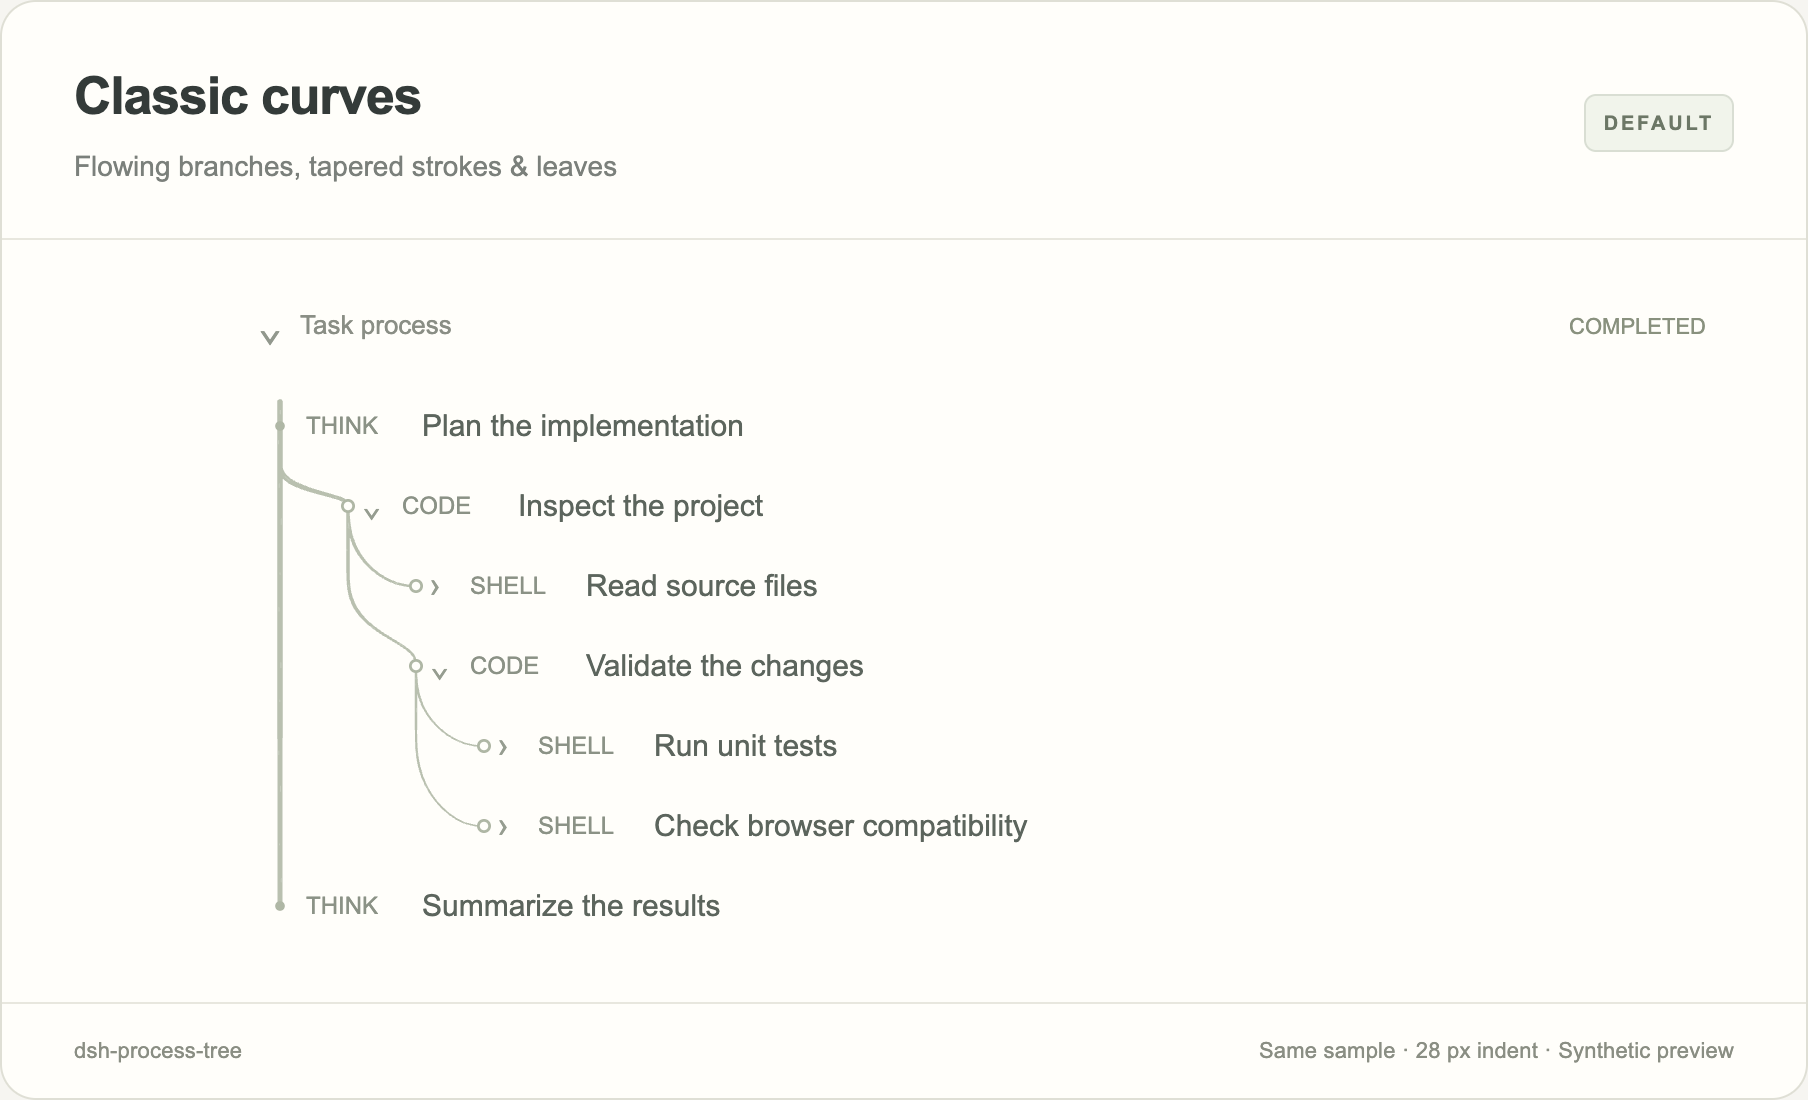
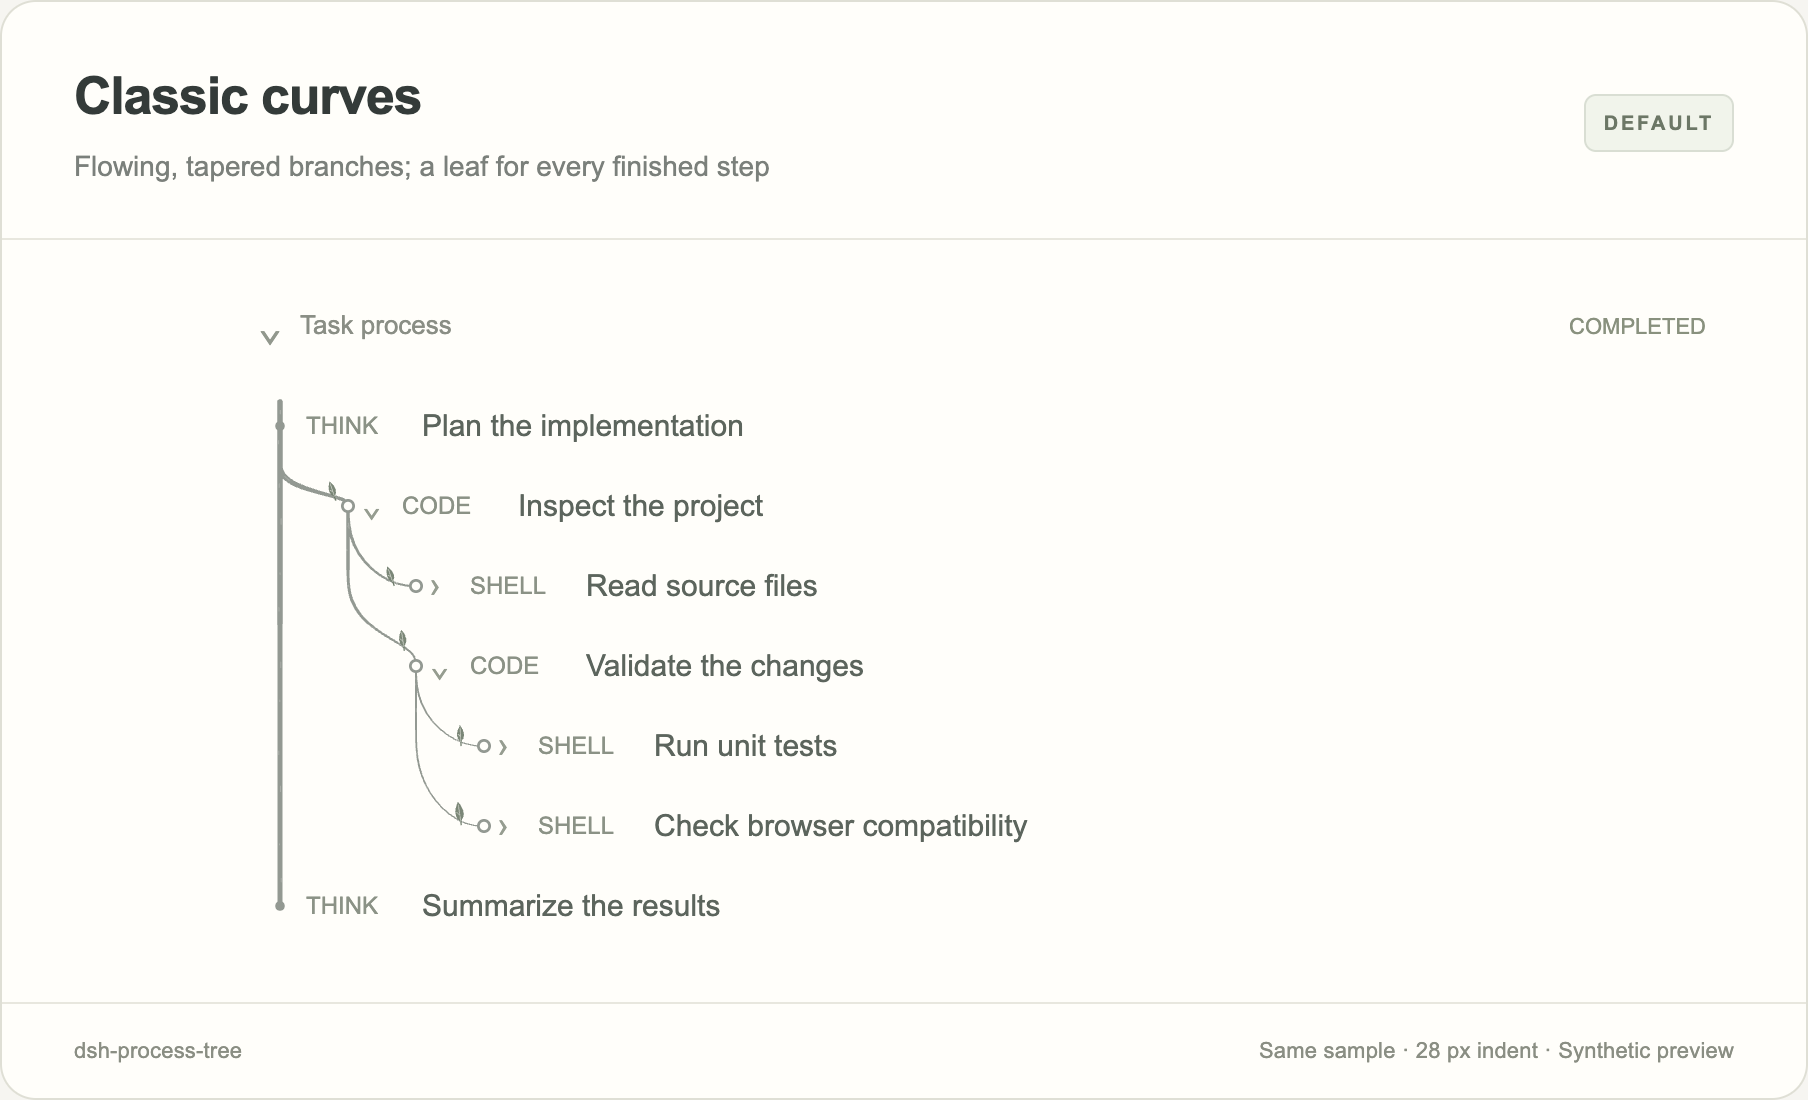
feat: darker tapered classic lines, leaves for finished steps, quiet as understated mode
- Classic lines take the host's text colour at about two-thirds strength
  and taper more along the trunk, stems and forks.
- A leaf sprouts only when a tool step finishes; running and failed steps
  stay bare. Leaves stand clear of the line and default to 9px.
- Drop the random leaf-density slider; a saved density of 0 migrates to
  hidden leaves that the leaf style select can turn back on.
- List quiet lines last as the understated mode in settings, READMEs and
  previews.

Changed region(s): [[0.0929, 0.1236, 0.4336, 0.1855], [0.1858, 0.4945, 0.2168, 0.5255], [0.1549, 0.4327, 0.1858, 0.4636]]

diff --git a/client.js b/client.js
@@ -89,7 +89,7 @@ window.__ModuleLoader__.load({
     growthEnabled: true,
     textureStrength: 0.24,
     leafDensity: 0.55,
-    leafSize: 7,
+    leafSize: 9,
     leafTint: 'muted',
     stateMotion: true,
     motionStrength: 0.4,
@@ -140,8 +140,12 @@ window.__ModuleLoader__.load({
       growthEnabled: typeof source.growthEnabled === 'boolean' ? source.growthEnabled : defaults.growthEnabled,
       textureStyle: ['none', 'ink', 'bark'].includes(source.textureStyle) ? source.textureStyle : defaults.textureStyle,
       textureStrength: clampNumber(source.textureStrength ?? defaults.textureStrength, 0, 1, defaults.textureStrength),
-      leafStyle: ['none', 'slim', 'round'].includes(source.leafStyle) ? source.leafStyle : defaults.leafStyle,
-      leafDensity: clampNumber(source.leafDensity ?? defaults.leafDensity, 0, 1, defaults.leafDensity),
+      // Leaves now mark finished steps; a density of 0 was the old way to hide them.
+      leafStyle: source.leafDensity === 0 ? 'none'
+        : ['none', 'slim', 'round'].includes(source.leafStyle) ? source.leafStyle : defaults.leafStyle,
+      // Consumed by the leafStyle migration above, so the select can turn leaves back on.
+      leafDensity: source.leafDensity === 0 ? defaults.leafDensity
+        : clampNumber(source.leafDensity ?? defaults.leafDensity, 0, 1, defaults.leafDensity),
       leafSize: clampNumber(source.leafSize ?? defaults.leafSize, 3, 12, defaults.leafSize),
       leafTint: ['muted', 'green', 'mono'].includes(source.leafTint) ? source.leafTint : defaults.leafTint,
       stateMotion: typeof source.stateMotion === 'boolean' ? source.stateMotion : defaults.stateMotion,
@@ -316,7 +320,8 @@ window.__ModuleLoader__.load({
 }
 
 .dpt-layer {
-  --dpt-ink: color-mix(in srgb, var(--dsw-alias-border-l2, #d8d4ca) 45%, var(--dsw-alias-label-tertiary, #8a857c));
+  /* The host's own text colour, mixed opaque with the page so joins never darken. */
+  --dpt-ink: color-mix(in srgb, currentColor 66%, var(--dsw-alias-bg-base, #fff));
   position: absolute;
   top: 0;
   left: 0;
@@ -326,8 +331,6 @@ window.__ModuleLoader__.load({
   pointer-events: none;
   z-index: 0;
 }
-/* Opacity belongs to the shared group: overlapping roots stay one tone. */
-.dpt-edges { opacity: .88; }
 .dpt-edge {
   fill: var(--dpt-ink);
   stroke: none;
@@ -342,7 +345,7 @@ window.__ModuleLoader__.load({
 .dpt-leaf.dpt-live { color: var(--dsw-alias-label-deep-diving, #5b8def); }
 .dpt-leaf.dpt-error { color: var(--dsw-alias-state-error-primary, #d9534f); }
 .dpt-leaf.dpt-stopped { color: var(--dsw-alias-state-warn-primary, #d9a441); }
-.dpt-leaf-fill { fill: currentColor; opacity: .72; }
+.dpt-leaf-fill { fill: currentColor; opacity: .9; }
 .dpt-leaf-vein { fill: none; stroke: var(--dsw-alias-bg-base, #fff); stroke-width: .45; opacity: .5; }
 .dpt-leaf-petiole { stroke: currentColor; stroke-width: .65; fill: none; }
 .dpt-leaf-blade { transform-origin: 0 0; }
@@ -842,11 +845,17 @@ window.__ModuleLoader__.load({
 
   let layerId = 0
   const isLive = (state) => state === 'running' || state === 'preparing'
+  const FINISHED_STATES = ['completed', 'success', 'succeeded', 'done']
+  const isFinished = (state) => FINISHED_STATES.includes(state)
   const smoothStep = (t) => t * t * (3 - 2 * t)
+  // Share of the width lost along the trunk, a stem, and across each fork.
+  const TRUNK_TAPER = 0.5
+  const STEM_TAPER = 0.2
+  const FORK_TAPER = 0.65
   const trunkWidth = (y) => Math.max(0.45, SETTINGS.lineWidth *
-    (1 - SETTINGS.thicknessDecay * 0.35 * (1 - Math.exp(-Math.max(0, y) / 480))))
+    (1 - SETTINGS.thicknessDecay * TRUNK_TAPER * (1 - Math.exp(-Math.max(0, y) / 480))))
   const stemWidth = (node, y) => Math.max(0.45, node.width *
-    (1 - SETTINGS.thicknessDecay * 0.12 * (1 - Math.exp(-Math.max(0, y - node.y) / 240))))
+    (1 - SETTINGS.thicknessDecay * STEM_TAPER * (1 - Math.exp(-Math.max(0, y - node.y) / 240))))
 
   function smoothOutline(points, move) {
     let d = (move ? 'M' : 'L') + coord(points[0].x) + ',' + coord(points[0].y)
@@ -2092,7 +2101,7 @@ window.__ModuleLoader__.load({
           : rootY
         const startY = branched ? topBranchStartY(previousRow, naturalStartY, node) : naturalStartY
         const endY = branched ? startY : node.y
-        node.width = branched ? Math.max(0.45, trunkWidth(startY) * (1 - SETTINGS.thicknessDecay * 0.55)) : trunkWidth(node.y)
+        node.width = branched ? Math.max(0.45, trunkWidth(startY) * (1 - SETTINGS.thicknessDecay * FORK_TAPER)) : trunkWidth(node.y)
         if (endY > railY) {
           edges.push({
             key: 'trunk:to:' + node.key,
@@ -2122,7 +2131,7 @@ window.__ModuleLoader__.load({
       })
 
       for (const node of nodes) {
-        if (node.parent) node.width = Math.max(0.45, stemWidth(node.parent, branchStartY(node.parent, node)) * (1 - SETTINGS.thicknessDecay * 0.55))
+        if (node.parent) node.width = Math.max(0.45, stemWidth(node.parent, branchStartY(node.parent, node)) * (1 - SETTINGS.thicknessDecay * FORK_TAPER))
         if (!node.children.length) continue
         const tx = node.dotX
         let lastStart = node.y
@@ -2149,7 +2158,7 @@ window.__ModuleLoader__.load({
               : branchD(tx, startY, child.dotX, child.y, child.hasVisibleChildren),
             type: 'branch',
             sourceWidth: stemWidth(node, startY),
-            endWidth: Math.max(0.45, stemWidth(node, startY) * (1 - SETTINGS.thicknessDecay * 0.55)),
+            endWidth: Math.max(0.45, stemWidth(node, startY) * (1 - SETTINGS.thicknessDecay * FORK_TAPER)),
             state: child.state,
             depth: child.depth,
             toKey: child.key,
@@ -2286,15 +2295,12 @@ window.__ModuleLoader__.load({
     renderLeaves(model, seenEdges, nodeMap) {
       const seen = new Set()
       const fragment = document.createDocumentFragment()
-      if (!SETTINGS.botanicalStyle && SETTINGS.leafStyle !== 'none' && SETTINGS.leafDensity > 0) {
-        for (const edge of model.edges) {
-          if (edge.type !== 'branch' || !seenEdges.has(edge.key)) continue
-          const node = nodeMap.get(edge.toKey)
-          if (!this.nodeInWindow(node)) continue
-          if (node.children.length || node.hasChildrenInDOM ||
-              hash('sprout:' + this.vineKey + ':' + node.key) / 4294967296 > SETTINGS.leafDensity) continue
-          const record = this.edgeRecords.get(edge.key)
-          if (!record?.length) continue
+      if (!SETTINGS.botanicalStyle && SETTINGS.leafStyle !== 'none') {
+        // A leaf means "this tool step finished": none while running or failed.
+        for (const node of model.nodes) {
+          if (node.kind !== 'tool' || !isFinished(node.state) || !this.nodeInWindow(node)) continue
+          const edgeKey = (node.parent ? 'branch:' : 'topbranch:') + node.key
+          const record = seenEdges.has(edgeKey) ? this.edgeRecords.get(edgeKey) : null
           seen.add(node.key)
           let leaf = this.leafEls.get(node.key)
           if (!leaf) {
@@ -2306,12 +2312,14 @@ window.__ModuleLoader__.load({
             this.leafEls.set(node.key, leaf)
           }
           leaf.style.display = ''
-          const p = record.geometry.sample(Math.max(0, record.length - Math.min(12, record.length * 0.2)))
-          // Grow into the empty gutter, always left of the label and node dot.
-          const angle = -125 + noise(this.vineKey + node.key) * 26
+          // On a branch the leaf sits near its tip; on the trunk, just above the dot.
+          const p = record?.length ? record.geometry.sample(Math.max(0, record.length - Math.min(12, record.length * 0.2)))
+            : { x: node.dotX, y: node.y - dotRadius(node) - 1 }
+          // Stand clear of the line: upward off a branch tip, up-left off the trunk.
+          const angle = (record?.length ? -100 : -140) + noise(this.vineKey + node.key) * 20
           attr(leaf, 'transform', 'translate(' + coord(Math.min(p.x, node.dotX - 3)) + ',' + coord(p.y) + ') rotate(' + coord(angle) + ')')
           const size = SETTINGS.leafSize * (0.9 + (hash(node.key) % 21) / 100)
-          const width = size * (SETTINGS.leafStyle === 'round' ? 0.62 : 0.34)
+          const width = size * (SETTINGS.leafStyle === 'round' ? 0.62 : 0.42)
           attr(leaf.querySelector('.dpt-leaf-fill'), 'd', 'M0,0 Q' + size * 0.35 + ',' + -width + ' ' + size + ',0 Q' + size * 0.35 + ',' + width + ' 0,0 Z')
           attr(leaf.querySelector('.dpt-leaf-vein'), 'd', 'M0,0 L' + size * 0.85 + ',0 M' + size * 0.33 + ',0 l' + size * 0.15 + ',' + -width * 0.35)
         }
@@ -2381,7 +2389,8 @@ window.__ModuleLoader__.load({
       update.geometry = update.layout || !!(update.dirty & DIRTY_SHAPE)
       update.model = update.geometry ? this.buildModel(update.nodes || this.model.nodes) : this.model
       update.nodeMap = update.geometry ? new Map(update.model.nodes.map((node) => [node.key, node])) : this.modelNodeMap
-      update.leaves = update.geometry || ['treeStyle', 'botanicalStyle', 'leafStyle', 'leafDensity', 'leafSize'].some((key) => update.keys.has(key))
+      update.leaves = update.geometry || ['treeStyle', 'botanicalStyle', 'leafStyle', 'leafDensity', 'leafSize'].some((key) => update.keys.has(key)) ||
+        [...update.changed.keys()].some((node) => isFinished(node.state) !== isFinished(this.nodeStates.get(node.key)))
       update.dots = update.geometry || ['treeStyle', 'botanicalStyle', 'dotSize', 'dotFollowWidth', 'dotStyle'].some((key) => update.keys.has(key))
       if (!update.geometry && !(update.dirty & DIRTY_APPEARANCE)) return
       update.plans = []
@@ -2462,7 +2471,7 @@ window.__ModuleLoader__.load({
         attr(halo, 'class', 'dpt-halo' + (SETTINGS.botanicalStyle && live ? ' dpt-halo-live' : ''))
         if (SETTINGS.botanicalStyle && SETTINGS.stateMotion && SETTINGS.motionStrength > 0 && !this.motionReduced() &&
             this.lastVisibleNodes.has(node.key) && isLive(this.nodeStates.get(node.key)) &&
-            ['completed', 'success', 'succeeded', 'done'].includes(node.state)) {
+            isFinished(node.state)) {
           const key = 'halo:' + node.key
           this.finishMotion(key)
           const motion = halo.animate([{ opacity: .45 }, { opacity: 0 }], { duration: 500 / SETTINGS.growthSpeed, easing: 'ease-out' })
@@ -2475,7 +2484,7 @@ window.__ModuleLoader__.load({
         attr(leaf, 'class', 'dpt-leaf' + (live ? ' dpt-live' : node.state === 'error' ? ' dpt-error' : node.state === 'stopped' ? ' dpt-stopped' : ''))
         if (leaf.style.display !== 'none' && SETTINGS.stateMotion && SETTINGS.motionStrength > 0 &&
             !this.motionReduced() && this.lastVisibleNodes.has(node.key) && isLive(this.nodeStates.get(node.key)) &&
-            ['completed', 'success', 'succeeded', 'done'].includes(node.state)) {
+            isFinished(node.state)) {
           const key = 'bloom:' + node.key
           this.finishMotion(key)
           const motion = leaf.querySelector('.dpt-leaf-blade').animate([
@@ -2958,7 +2967,7 @@ window.__ModuleLoader__.load({
           h(SelectRow, {
             label: '风格', desc: '切换时套用该风格的线宽、曲线、纹理与圆点预设，之后仍可单独微调',
             value: settings.treeStyle,
-            options: [{ value: 'quiet', label: '安静线条' }, { value: 'botanical', label: '植物手稿' }, { value: 'classic', label: '经典曲线' }],
+            options: [{ value: 'classic', label: '经典曲线' }, { value: 'botanical', label: '植物手稿' }, { value: 'quiet', label: '安静线条（低调）' }],
             onChange: (treeStyle) => commit({ ...STYLE_PRESETS[treeStyle], treeStyle }),
           }),
           ...(settings.treeStyle !== 'botanical' ? [] : [
@@ -3036,7 +3045,7 @@ window.__ModuleLoader__.load({
           h('h3', { className: 'dpt-subhead' }, '纹理与叶片'),
           h('div', { className: 'dpt-presets', 'aria-label': '装饰预设' },
             h('button', { className: 'dpt-btn', type: 'button', onClick: () => commit({ textureStyle: 'none', leafStyle: 'none' }) }, '素净'),
-            h('button', { className: 'dpt-btn', type: 'button', onClick: () => commit({ textureStyle: 'ink', textureStrength: 0.24, leafStyle: 'slim', leafTint: 'mono', leafDensity: 0.55, leafSize: 7 }) }, '墨线'),
+            h('button', { className: 'dpt-btn', type: 'button', onClick: () => commit({ textureStyle: 'ink', textureStrength: 0.24, leafStyle: 'slim', leafTint: 'mono', leafDensity: 0.55, leafSize: 9 }) }, '墨线'),
             h('button', { className: 'dpt-btn', type: 'button', onClick: () => commit({ textureStyle: 'bark', textureStrength: 0.35, leafStyle: 'round', leafTint: 'green', leafDensity: 0.7, leafSize: 9 }) }, '藤蔓')
           ),
           h(SelectRow, {
@@ -3049,13 +3058,9 @@ window.__ModuleLoader__.load({
             value: settings.textureStrength, format: (value) => Math.round(value * 100) + '%', onChange: (textureStrength) => commit({ textureStrength }),
           }),
           h(SelectRow, {
-            label: '经典叶片样式', desc: '仅经典样式生效；植物手稿的叶片位于顶部树冠', value: settings.leafStyle,
+            label: '经典叶片样式', desc: '工具步骤完成时长出一片叶子；运行中或异常时不显示。仅经典样式生效', value: settings.leafStyle,
             options: [{ value: 'none', label: '隐藏叶片' }, { value: 'slim', label: '细长叶片' }, { value: 'round', label: '圆润叶片' }],
             onChange: (leafStyle) => commit({ leafStyle }),
-          }),
-          h(SliderRow, {
-            label: '叶片密度', desc: '按节点稳定分布，不随重绘随机跳动；0 隐藏，100% 每个末梢都有叶片', min: 0, max: 1, step: 0.01,
-            value: settings.leafDensity, format: (value) => Math.round(value * 100) + '%', onChange: (leafDensity) => commit({ leafDensity }),
           }),
           h(SliderRow, {
             label: '叶片大小', desc: '叶片向标签左侧的空白处生长', min: 3, max: 12, step: 0.5,

diff --git a/README.en.md b/README.en.md
@@ -12,21 +12,21 @@ These images use the actual plugin renderer, the same synthetic transcript and a
 
 ### Classic curves (default)
 
-Flowing branches and tapered strokes give the tree a natural shape.
+Flowing branches with a clear taper, drawn in the interface's own text colour. A leaf sprouts when a tool step finishes; running and failed steps stay bare.
 
 ![Classic curves with a trunk, two nested branch levels and state dots](docs/images/classic.png)
-
-### Quiet lines
-
-Uniform thin strokes, rounded corners and smaller dots.
-
-![Quiet lines with uniform strokes and rounded nested branches](docs/images/quiet.png)
 
 ### Botanical
 
 Original canopy artwork and thicker wood roots (5.6 px line-width preset) connect the calls into a tree.
 
 ![Botanical style with a full canopy, wood trunk and nested calls](docs/images/botanical.png)
+
+### Quiet lines (understated)
+
+For when you want no decoration: uniform thin strokes, rounded corners and one dot size, close to an editor's indent guides.
+
+![Quiet lines with uniform strokes and rounded nested branches](docs/images/quiet.png)
 
 ## Install
 
@@ -70,7 +70,7 @@ Restart the corresponding DSH instance. Use Desktop's plugin manager for its man
 
 ## Settings
 
-Open **Settings → Plugins → 过程树**. Classic is the default: flowing tapered curves, texture and leaves. Quiet uses 1.5 px uniform lines, rounded corners and dots of one size at every level; botanical adds original canopy artwork, wood roots and halos. Selecting a style applies its preset; sliders remain editable.
+Open **Settings → Plugins → 过程树**. Classic is the default: flowing tapered curves, texture, and leaves on finished tool steps. Quiet is the understated mode and uses 1.5 px uniform lines, rounded corners and dots of one size at every level; botanical adds original canopy artwork, wood roots and halos. Selecting a style applies its preset; sliders remain editable.
 
 Controls cover transitions, line width, indentation, summary dimming, leading, dots, growth and decoration. Botanical controls appear in that style. The settings preview shares the chat renderer. Reduced motion stops growth and state motion. Far-away history releases drawing resources while preserving layout space. Fresh installations and older preferences without a valid style use classic while retaining row appearance and canopy preferences. Explicit saved style choices remain unchanged.
 

diff --git a/README.md b/README.md
@@ -12,21 +12,21 @@
 
 ### 经典曲线（默认）
 
-流动曲线与粗细衰减，保留树枝的自然形态。
+流动曲线与清晰的粗细衰减，线色取自界面正文色。工具步骤完成时长出一片叶子，运行中和异常的步骤不长叶。
 
 ![经典曲线模式：主干、两层嵌套分支和状态圆点](docs/images/classic.png)
-
-### 安静线条
-
-等宽细线、圆角分支与更小的圆点。
-
-![安静线条模式：等宽细线与圆角嵌套分支](docs/images/quiet.png)
 
 ### 植物手稿
 
 原创树冠与更粗的木质根系（5.6 px 线宽预设），将调用层级连接成一棵树。
 
 ![植物手稿模式：完整树冠、木质主干及嵌套调用](docs/images/botanical.png)
+
+### 安静线条（低调模式）
+
+不想要装饰时使用：等宽细线、圆角分支和统一圆点，接近编辑器的缩进参考线。
+
+![安静线条模式：等宽细线与圆角嵌套分支](docs/images/quiet.png)
 
 ## 安装
 
@@ -76,9 +76,9 @@ dsh plugin --profile web add ./dsh-process-tree-0.7.4.tgz
 
 | 风格 | 外观 |
 | --- | --- |
-| 安静线条 `quiet` | 1.5 px 等宽线，直主干，圆角分支，各层级一致的圆点 |
+| 经典曲线 `classic`，默认 | 流动曲线、粗细衰减、墨线纹理，完成的工具步骤长出叶片 |
 | 植物手稿 `botanical` | 原创树冠、木质根系、细纹和状态光晕 |
-| 经典曲线 `classic`，默认 | 流动曲线、粗细衰减、墨线纹理和叶片 |
+| 安静线条 `quiet`，低调模式 | 1.5 px 等宽线，直主干，圆角分支，各层级一致的圆点 |
 
 面板可调整分支过渡、线宽、缩进、摘要浓度、行距、圆点、生长速度和装饰。植物风格下显示树冠设置。设置预览与聊天区使用同一渲染器。
 

diff --git a/CHANGELOG.md b/CHANGELOG.md
@@ -6,6 +6,9 @@
 - Top-level tool branches leave the trunk between rows instead of from the previous dot, so siblings no longer read as children.
 - One dot rule everywhere: solid for thinking, ring for tools, same size at every depth, drawn in the line's own colour.
 - Even row rhythm: top-level steps and nested calls share one 16 px gap; branch transitions bend within it instead of adding padding.
+- Classic lines use the host's text colour at about two-thirds strength instead of a faint sage grey; the taper is stronger along the trunk, stems and forks.
+- Classic leaves now mean something: a leaf sprouts when a tool step finishes, and running or failed steps stay bare. The random leaf-density slider is gone; a saved density of 0 migrates to hidden leaves. Default leaf size is 9 px.
+- Quiet lines are presented as the understated mode: listed last in the settings and READMEs.
 
 ## 0.7.4
 
